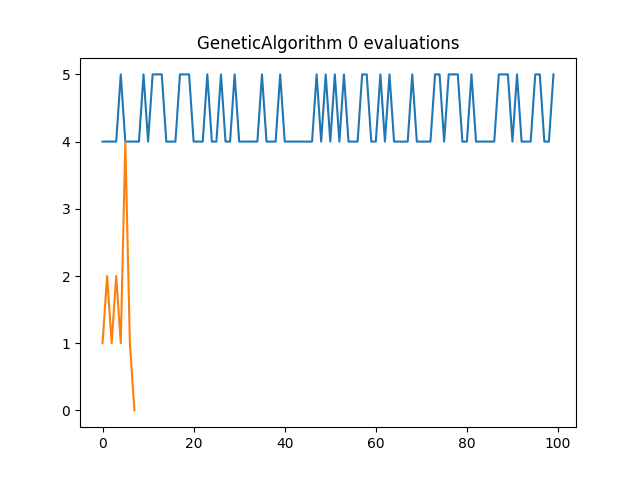
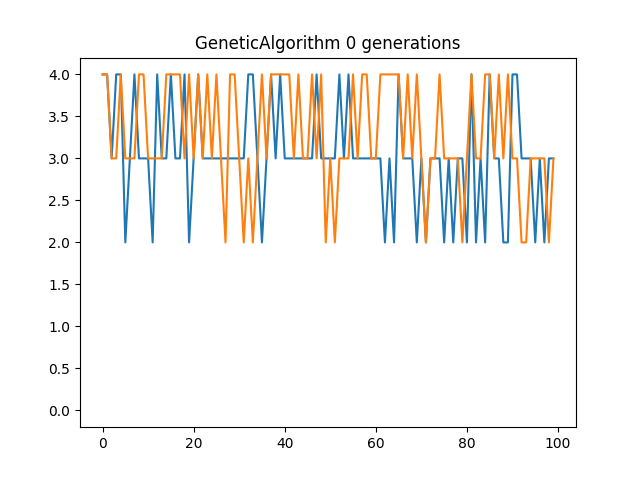
bug Fix

diff --git a/tp5-busquedas-locales/code/geneticAlgorithm.py b/tp5-busquedas-locales/code/geneticAlgorithm.py
@@ -52,7 +52,7 @@ def geneticAlgorithm(n, maxGenerations, plot):
 
             if plot:
                 plt.plot(fitness)
-                plt.title(f'GeneticAlgorithm {generation} evaluations')
+                plt.title(f'GeneticAlgorithm {generation} generations')
                 plt.savefig('geneticAlgorithm.png')
 
             return (bestpopultion, generation)
@@ -72,7 +72,7 @@ def geneticAlgorithm(n, maxGenerations, plot):
     if plot:
         print("hola")
         plt.plot(fitness)
-        plt.title(f'GeneticAlgorithm {generation} evaluations')
+        plt.title(f'GeneticAlgorithm {generation} generations')
         plt.savefig('geneticAlgorithm.png')
 
     return (bestpopultion, generation)

diff --git a/tp5-busquedas-locales/code/simulatedAnnealing.py b/tp5-busquedas-locales/code/simulatedAnnealing.py
@@ -31,8 +31,8 @@ def simulatedAnnealing(n, maxEvaluations, plot = False):
 
             if plot:
                 plt.plot(fitness)
-                plt.title(f'hillClimbing {evaluations} evaluations')
-                plt.savefig('hillclimbing.png')
+                plt.title(f'SimulatedAnnaling {evaluations} evaluations')
+                plt.savefig('SimulatedAnnaling.png')
                 
             return (bestTable, evaluations)
         
